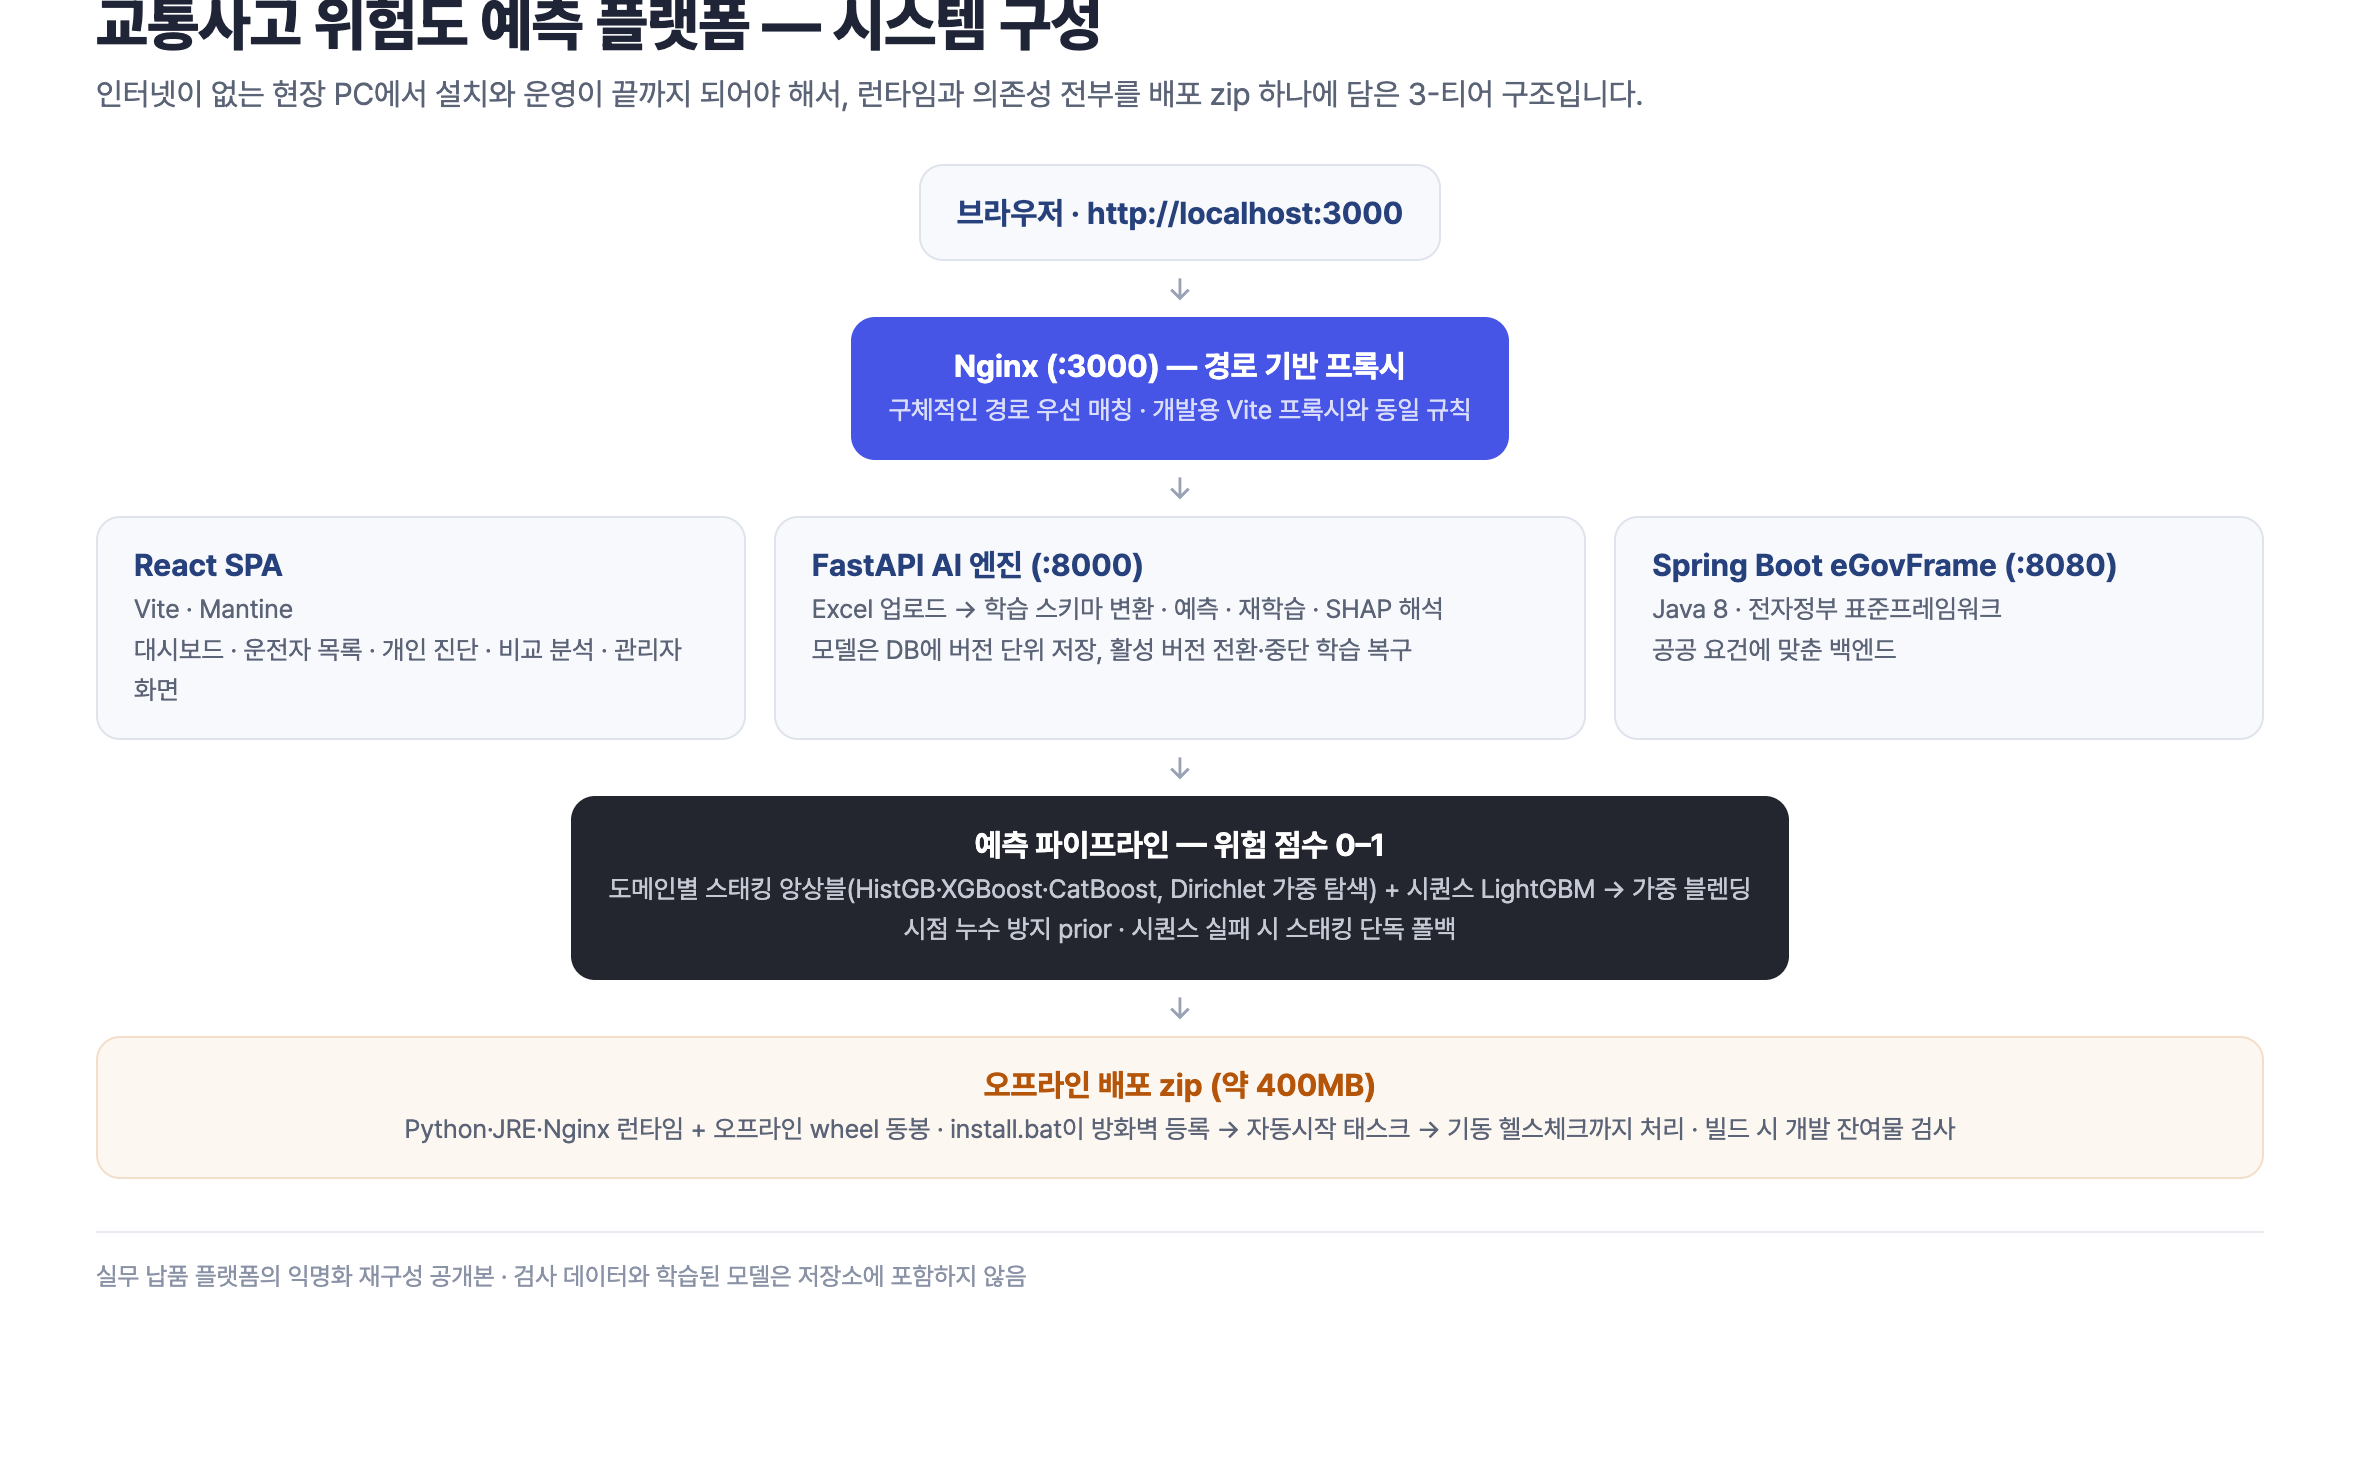
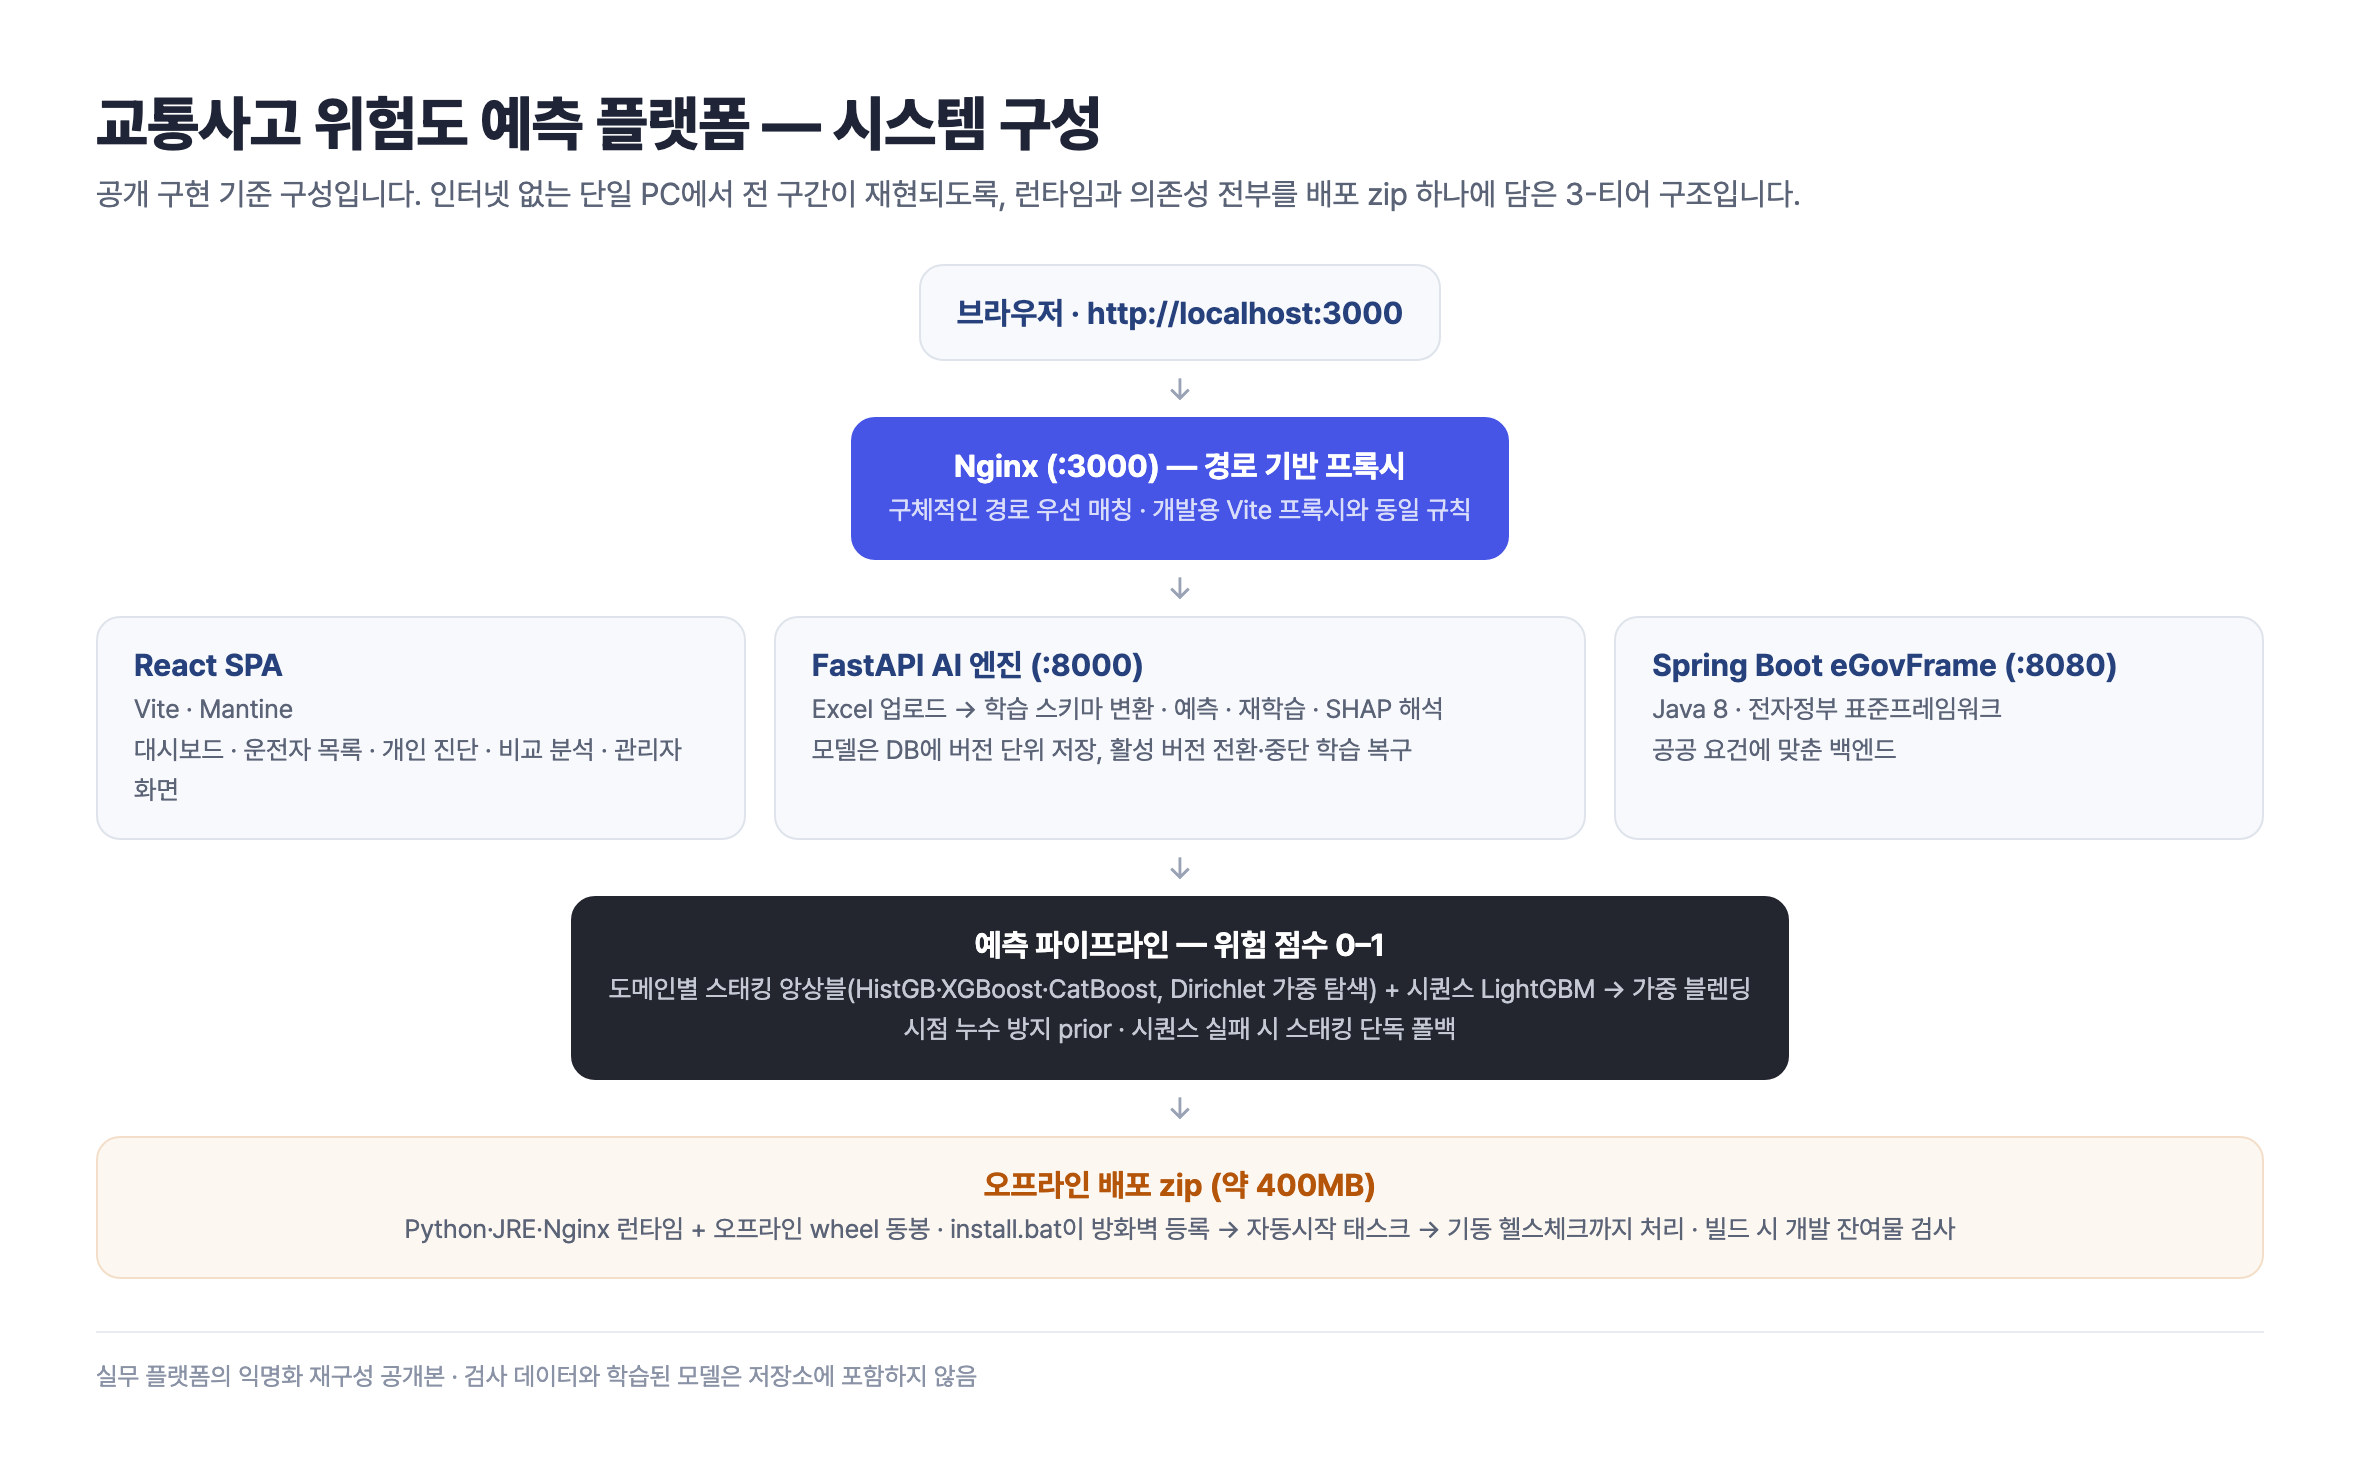
교통사고 플랫폼 서술을 폐쇄망 클라우드 실배포 기준으로 교정

Changed region(s): [[0.0309, 0.0, 0.897, 0.8938], [0.0309, 0.9247, 0.4021, 0.9555]]

diff --git a/src/data/projects.ts b/src/data/projects.ts
@@ -68,7 +68,7 @@ export const projects: Project[] = [
     org: "데이콘 / 행안부·NIA·한국교통안전공단 위탁",
     role: "PL",
     summary:
-      "행안부·NIA·한국교통안전공단 위탁사업. 검사 결과와 사고 이력을 학습한 앙상블 모델로 위험도를 예측하고, 관리 웹과 망분리 환경용 오프라인 배포 체계까지 전 구간을 PL로 수행.",
+      "행안부·NIA·한국교통안전공단 위탁사업. 검사 결과와 사고 이력을 학습한 앙상블 모델로 위험도를 예측하는 관리 웹을 개발하고, 발주기관 폐쇄망 클라우드 환경에 실제 배포까지 전 구간을 PL로 수행.",
     hero: "/projects/driver-risk-demo.png",
     github: "https://github.com/Minsu5452/driver-risk-prediction-platform",
     color: "#ef4444",
@@ -91,7 +91,7 @@ export const projects: Project[] = [
     body: [
       {
         heading: "배경",
-        text: "운수종사자의 검사 결과와 사고 이력으로 교통사고 위험을 사전 식별하는 시스템이 필요했습니다. 2025년 같은 주제 경진대회 솔루션(상위 7.8%)을 출발점으로 삼아 실제 운영 가능한 플랫폼으로 확장했고, 인터넷이 없는 현장 PC에서 설치와 운영이 끝까지 되어야 한다는 제약에서 구조를 잡았습니다.",
+        text: "운수종사자의 검사 결과와 사고 이력으로 교통사고 위험을 사전 식별하는 시스템이 필요했습니다. 2025년 같은 주제 경진대회 솔루션(상위 7.8%)을 출발점으로 삼아 실제 운영 가능한 플랫폼으로 확장했고, 외부망이 차단된 폐쇄망 환경에서 운영되어야 한다는 제약에서 구조를 잡았습니다.",
       },
       {
         heading: "접근",
@@ -99,19 +99,19 @@ export const projects: Project[] = [
       },
       {
         heading: "결과",
-        text: "Python·JRE·Nginx 런타임과 오프라인 wheel을 전부 담은 배포 zip과 설치·헬스체크 스크립트로 망분리 운영 환경에 실제 배포까지 수행했습니다. 공개 저장소는 납품본을 익명화해 재구성한 것입니다.",
+        text: "실제 시스템은 발주기관의 폐쇄망 클라우드 환경에 배포까지 수행했습니다. 공개 저장소는 실무 구현을 익명화해 재구성한 것으로, 클라우드 없이 단일 PC에서도 인터넷 없이 전 구간이 재현되도록 Python·JRE·Nginx 런타임과 오프라인 wheel을 전부 담은 zip 설치 체계를 담았습니다.",
       },
     ],
     metrics: [
       { label: "스태킹 AUC (신규·자격유지)", value: "0.728 / 0.727" },
       { label: "시퀀스 AUC (도메인 통합)", value: "0.742" },
       { label: "전체 학습 시간", value: "약 44분" },
-      { label: "오프라인 배포 zip", value: "약 400MB" },
+      { label: "배포 zip (공개 구현)", value: "약 400MB" },
     ],
     architecture: {
       image: "/projects/arch/driver-risk-architecture.png",
       alt: "교통사고 위험도 예측 플랫폼 시스템 구성 — Nginx 뒤 React·FastAPI·eGovFrame 3-티어와 오프라인 배포 zip",
-      note: "성능 수치는 실제 데이터로 학습해 저장된 결과이며, 검사 데이터가 저장소에 없어 저장소만으로는 재현되지 않습니다.",
+      note: "공개 구현 기준 시스템 구성입니다. 성능 수치는 실제 데이터로 학습해 저장된 결과이며, 검사 데이터가 저장소에 없어 저장소만으로는 재현되지 않습니다.",
     },
   },
   {

diff --git a/docs/diagrams/driver-risk-architecture.html b/docs/diagrams/driver-risk-architecture.html
@@ -44,7 +44,7 @@
 </head>
 <body>
   <h1>교통사고 위험도 예측 플랫폼 — 시스템 구성</h1>
-  <p class="sub">인터넷이 없는 현장 PC에서 설치와 운영이 끝까지 되어야 해서, 런타임과 의존성 전부를 배포 zip 하나에 담은 3-티어 구조입니다.</p>
+  <p class="sub">공개 구현 기준 구성입니다. 인터넷 없는 단일 PC에서 전 구간이 재현되도록, 런타임과 의존성 전부를 배포 zip 하나에 담은 3-티어 구조입니다.</p>
 
   <div class="flow">
     <div class="box" style="max-width:460px; margin:0 auto; text-align:center;">
@@ -82,6 +82,6 @@
     </div>
   </div>
 
-  <p class="foot">실무 납품 플랫폼의 익명화 재구성 공개본 · 검사 데이터와 학습된 모델은 저장소에 포함하지 않음</p>
+  <p class="foot">실무 플랫폼의 익명화 재구성 공개본 · 검사 데이터와 학습된 모델은 저장소에 포함하지 않음</p>
 </body>
 </html>